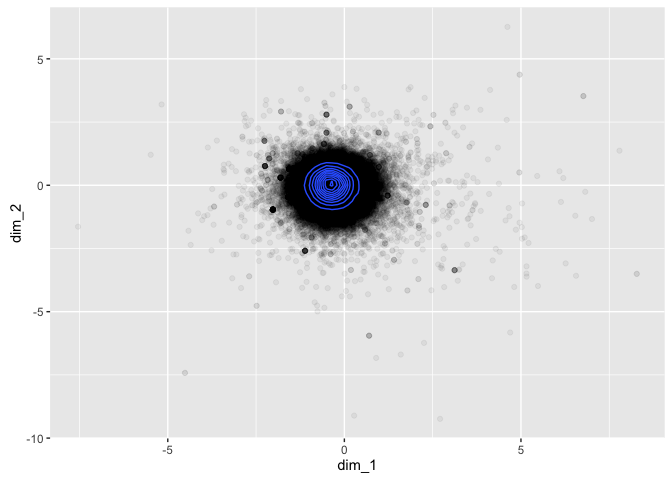
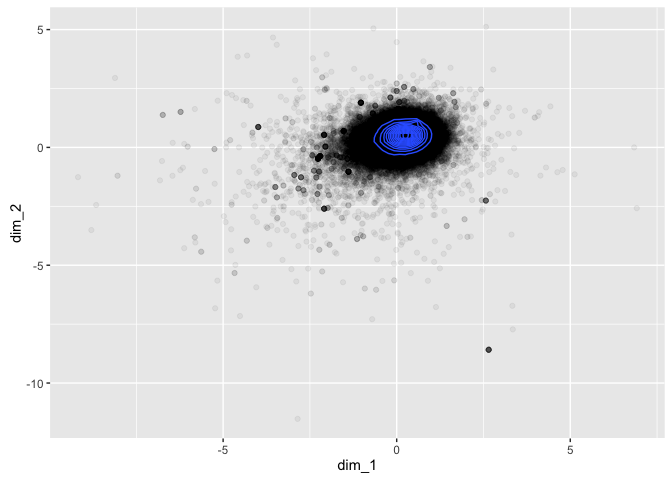
More work on GloVe tests

diff --git a/Experimentation/GloVeDistributions.md b/Experimentation/GloVeDistributions.md
@@ -87,10 +87,10 @@ word_vectors[c("cat", "dog", "research", "impact"),]
 ```
 
     ##                [,1]       [,2]
-    ## cat      -0.2120372 -0.1682826
-    ## dog      -0.4403001 -0.4487575
-    ## research  3.6708916  2.5611910
-    ## impact    3.0229723  2.9584991
+    ## cat      0.01735823 -0.4029906
+    ## dog      0.13628136 -0.9495724
+    ## research 2.70046246  3.6300607
+    ## impact   3.13069940  2.8159776
 
 We can also look at how these words are distributed across the two dimensional space.
 
@@ -140,15 +140,15 @@ mardiaTest(word_vectors2[sample(1:nrow(word_vectors2), 5000),])
     ## --------------------------------------- 
     ##    data : word_vectors2[sample(1:nrow(word_vectors2), 5000), ] 
     ## 
-    ##    g1p            : 46.48168 
-    ##    chi.skew       : 38734.73 
+    ##    g1p            : 47.11102 
+    ##    chi.skew       : 39259.18 
     ##    p.value.skew   : 0 
     ## 
-    ##    g2p            : 2702.708 
-    ##    z.kurtosis     : 50.35668 
+    ##    g2p            : 2707.151 
+    ##    z.kurtosis     : 52.53521 
     ##    p.value.kurt   : 0 
     ## 
-    ##    chi.small.skew : 38758.88 
+    ##    chi.small.skew : 39283.66 
     ##    p.value.small  : 0 
     ## 
     ##    Result          : Data are not multivariate normal. 
@@ -162,7 +162,7 @@ hzTest(word_vectors2[sample(1:nrow(word_vectors2), 5000),])
     ## --------------------------------------------- 
     ##   data : word_vectors2[sample(1:nrow(word_vectors2), 5000), ] 
     ## 
-    ##   HZ      : 1.000453 
+    ##   HZ      : 1.000202 
     ##   p-value : 0 
     ## 
     ##   Result  : Data are not multivariate normal. 
@@ -176,8 +176,8 @@ roystonTest(word_vectors2[sample(1:nrow(word_vectors2), 2000),])
     ## --------------------------------------------- 
     ##   data : word_vectors2[sample(1:nrow(word_vectors2), 2000), ] 
     ## 
-    ##   H       : 152.086 
-    ##   p-value : 3.080538e-12 
+    ##   H       : 162.6471 
+    ##   p-value : 7.635894e-14 
     ## 
     ##   Result  : Data are not multivariate normal. 
     ## ---------------------------------------------
@@ -190,11 +190,11 @@ Before we move on, we might as well check that similar words are near each other
 word_vectors[c("kidney", "bladder", "institute", "university"),]
 ```
 
-    ##                   [,1]       [,2]
-    ## kidney      0.02697178 -0.7086117
-    ## bladder    -0.44632564 -0.9706518
-    ## institute   2.45611095 -0.6736502
-    ## university  3.48836768 -0.4219434
+    ##                  [,1]       [,2]
+    ## kidney     0.57540366 -0.9746883
+    ## bladder    0.19040459 -1.3997446
+    ## institute  0.58163974  1.4106487
+    ## university 0.02619392  3.3428206
 
 It looks like it works pretty well, even in 2 dimensions! To be extra certain we can look at similar words in the 50 dimensional GloVe model.
 
@@ -207,29 +207,29 @@ get_nearest <- function(x) {
 get_nearest("kidney")
 ```
 
-    ##      kidney  transplant respiratory     chronic populations 
-    ##   1.0000000   0.6414065   0.6280148   0.6262203   0.5759843
+    ##     kidney transplant    chronic  pregnancy   corridor 
+    ##  1.0000000  0.6665933  0.6455455  0.5637431  0.5625042
 
 ``` r
 get_nearest("bladder")
 ```
 
-    ##   bladder    rectal     colon  invasive    penile 
-    ## 1.0000000 0.6095564 0.6058688 0.5802685 0.5690558
+    ##       bladder          lung        rectal neuromuscular      ancestry 
+    ##     1.0000000     0.6401507     0.5977973     0.5875259     0.5865934
 
 ``` r
 get_nearest("institute")
 ```
 
-    ##   institute association  australian     academy  foundation 
-    ##   1.0000000   0.6167790   0.6124357   0.5966237   0.5959347
+    ##  institute    british    academy australian     centre 
+    ##  1.0000000  0.6509103  0.6023490  0.6019490  0.5979515
 
 ``` r
 get_nearest("university")
 ```
 
-    ## university  cambridge     oxford    bristol      leeds 
-    ##  1.0000000  0.7610587  0.7569901  0.7462350  0.7305951
+    ## university     oxford    glasgow  cambridge    bristol 
+    ##  1.0000000  0.7678074  0.7548113  0.7354686  0.7171991
 
 This is looking promising - similar words are near each other in the 50D representation, which suggests it is doing a reasonable job of separating out the words.
 
@@ -242,7 +242,7 @@ qlst <- prepare_analogy_questions(questions_file,
                                   verbose = T)
 ```
 
-    ## 2016-10-13 00:28:13 -  9018 full questions found out of 19544 total
+    ## 2016-10-13 14:32:35 -  9018 full questions found out of 19544 total
 
 ``` r
 res <- check_analogy_accuracy(questions_list = qlst, 
@@ -250,35 +250,35 @@ res <- check_analogy_accuracy(questions_list = qlst,
                               verbose = T)
 ```
 
-    ## 2016-10-13 00:28:14 - capital-common-countries: correct 51 out of 506, accuracy = 0.1008
+    ## 2016-10-13 14:32:37 - capital-common-countries: correct 61 out of 506, accuracy = 0.1206
 
-    ## 2016-10-13 00:28:17 - capital-world: correct 79 out of 1638, accuracy = 0.0482
+    ## 2016-10-13 14:32:40 - capital-world: correct 66 out of 1638, accuracy = 0.0403
 
-    ## 2016-10-13 00:28:17 - currency: correct 0 out of 40, accuracy = 0.0000
+    ## 2016-10-13 14:32:40 - currency: correct 0 out of 40, accuracy = 0.0000
 
-    ## 2016-10-13 00:28:18 - city-in-state: correct 9 out of 449, accuracy = 0.0200
+    ## 2016-10-13 14:32:41 - city-in-state: correct 7 out of 449, accuracy = 0.0156
 
-    ## 2016-10-13 00:28:18 - family: correct 24 out of 182, accuracy = 0.1319
+    ## 2016-10-13 14:32:41 - family: correct 22 out of 182, accuracy = 0.1209
 
-    ## 2016-10-13 00:28:19 - gram1-adjective-to-adverb: correct 5 out of 506, accuracy = 0.0099
+    ## 2016-10-13 14:32:42 - gram1-adjective-to-adverb: correct 3 out of 506, accuracy = 0.0059
 
-    ## 2016-10-13 00:28:19 - gram2-opposite: correct 1 out of 240, accuracy = 0.0042
+    ## 2016-10-13 14:32:42 - gram2-opposite: correct 0 out of 240, accuracy = 0.0000
 
-    ## 2016-10-13 00:28:21 - gram3-comparative: correct 86 out of 930, accuracy = 0.0925
+    ## 2016-10-13 14:32:44 - gram3-comparative: correct 72 out of 930, accuracy = 0.0774
 
-    ## 2016-10-13 00:28:22 - gram4-superlative: correct 7 out of 210, accuracy = 0.0333
+    ## 2016-10-13 14:32:44 - gram4-superlative: correct 9 out of 210, accuracy = 0.0429
 
-    ## 2016-10-13 00:28:23 - gram5-present-participle: correct 47 out of 870, accuracy = 0.0540
+    ## 2016-10-13 14:32:46 - gram5-present-participle: correct 45 out of 870, accuracy = 0.0517
 
-    ## 2016-10-13 00:28:26 - gram6-nationality-adjective: correct 71 out of 1299, accuracy = 0.0547
+    ## 2016-10-13 14:32:48 - gram6-nationality-adjective: correct 53 out of 1299, accuracy = 0.0408
 
-    ## 2016-10-13 00:28:28 - gram7-past-tense: correct 66 out of 992, accuracy = 0.0665
+    ## 2016-10-13 14:32:50 - gram7-past-tense: correct 78 out of 992, accuracy = 0.0786
 
-    ## 2016-10-13 00:28:29 - gram8-plural: correct 4 out of 650, accuracy = 0.0062
+    ## 2016-10-13 14:32:51 - gram8-plural: correct 3 out of 650, accuracy = 0.0046
 
-    ## 2016-10-13 00:28:30 - gram9-plural-verbs: correct 28 out of 506, accuracy = 0.0553
+    ## 2016-10-13 14:32:52 - gram9-plural-verbs: correct 36 out of 506, accuracy = 0.0711
 
-    ## 2016-10-13 00:28:30 - OVERALL ACCURACY = 0.0530
+    ## 2016-10-13 14:32:52 - OVERALL ACCURACY = 0.0505
 
 The overall accuracy isn't hugely important in this context, and it will be improved upon when the model is tuned.
 
@@ -350,61 +350,61 @@ We can now see if similar sentences are being discovered by the model - here goe
 get_nearest_and_farthest(1, sentence_vectors)
 ```
 
-    ##                                                                                                                                                                                                                                                                               the historical, cultural, methodological and ethical insights from the research and outputs have resulted in pioneering, wide-ranging and sustained impact from ntu's leading involvement and advisory role in a number of impactful projects in the documentation, management and renewal of built heritage in oman and the uae and its dissemination through public engagement. 
-    ##                                                                                                                                                                                                                                                                                                                                                                                                                                                                                                                                                                                                                                                       1.0000000 
-    ##                                                                                                                                                                                                                                                                                                                                                                                    by using these exhibitions as a platform for the dissemination of kent and desnoes' collaborative work, the impact from this project has enriched cultural awareness of local and global cultural heritage and has provided expert opinion on presenting this to the public. 
-    ##                                                                                                                                                                                                                                                                                                                                                                                                                                                                                                                                                                                                                                                       0.8997682 
-    ##                                                                                                                                                                                                                                                                                                                    (2) the exceptional impact of brennand-wood's work with regard to interdisciplinary practices on a diverse set of audiences through public engagement activities is evidenced through the large number of public and private commissions (17 since 1993) for which the coleston hall project is exemplary through its cross-over with music. 
-    ##                                                                                                                                                                                                                                                                                                                                                                                                                                                                                                                                                                                                                                                       0.8928349 
-    ## the rota season (attendance 3,272) (5.10) showcased sixteen movies with scores by rota, including visconti's white nights (1957), the leopard (1963) and rocco and his brothers (1960), fellini's i vitelloni (1953), la strada (1954), il bidone (1955), nights of cabiria (1956), la dolce vita (1960), eight and a half (1963) and amarcord (1973), as well as popular italian comedies (&#200; primavera (1949), anni facili (1953), a queer melodrama (amici per la pelle (1955)), a british (obsession (1949)) and a french (plein soleil (1959)) thriller, zeffirelli's the taming of the shrew (1966) and the blockbuster the godfather part ii (1974). 
-    ##                                                                                                                                                                                                                                                                                                                                                                                                                                                                                                                                                                                                                                                      -0.6070391 
-    ##                                                                                                                                                                                                                                                                                                                                                                                                                                                                                                                                                                                                                               figure courtesy of bfn and ospar. 
-    ##                                                                                                                                                                                                                                                                                                                                                                                                                                                                                                                                                                                                                                                      -0.6208839
+    ##                                                                                     the historical, cultural, methodological and ethical insights from the research and outputs have resulted in pioneering, wide-ranging and sustained impact from ntu's leading involvement and advisory role in a number of impactful projects in the documentation, management and renewal of built heritage in oman and the uae and its dissemination through public engagement. 
+    ##                                                                                                                                                                                                                                                                                                                                                                                                                                                             1.0000000 
+    ##                                                                                                                                                             the significant impact of the research projects has been recognised in terms of the contribution to cultural enrichment, the discussion of sites of national heritage and engagement of public in moral and ethical issues arising from new scientific developments and the transparency of closed sites. 
+    ##                                                                                                                                                                                                                                                                                                                                                                                                                                                             0.8987246 
+    ##                                                                                                                                                                                          by using these exhibitions as a platform for the dissemination of kent and desnoes' collaborative work, the impact from this project has enriched cultural awareness of local and global cultural heritage and has provided expert opinion on presenting this to the public. 
+    ##                                                                                                                                                                                                                                                                                                                                                                                                                                                             0.8871750 
+    ## tesco british telecom waldner rhoss lennox fnac first facility siemens arcotel mcdonalds baxter schneider electric skanska socomec vodafone allianz johnson controls media markt eversheds metro ag cofely lg electronics marriott daikin honeywell spar best western nh hoteles unicredit carrier h&amp;m falkensteiner ibis hotels france air eurobank aldi relais &amp; chateaux mercure mitie toshiba ikea grupo inditex (zara, mango etc) swegon santander trane 
+    ##                                                                                                                                                                                                                                                                                                                                                                                                                                                            -0.5652953 
+    ##                                                                                                                                                                                                                                                                                                                                                                                                                                     figure courtesy of bfn and ospar. 
+    ##                                                                                                                                                                                                                                                                                                                                                                                                                                                            -0.5787604
 
 ``` r
 get_nearest_and_farthest(1234, sentence_vectors)
 ```
 
-    ##                                                                                                      policy the uk`s cabinet office, and office of the prime minister, invited varese to join the strategic review of serious organized crime, in 2009, because his work had come to the attention of the chairman of soca [section 5: c1]. 
-    ##                                                                                                                                                                                                                                                                                                                                   1.0000000 
-    ##                                                                                                                                                                                                                                            findings have been presented, by invitation, at the cabinet office, and the ministry of justice. 
-    ##                                                                                                                                                                                                                                                                                                                                   0.8658055 
-    ## a year later, michael mulqueen was invited to provide a confidential interim briefing on irish national security to the leader of the opposition, enda kenny td (currently taoiseach/prime minister), which fed, directly, into a number of questions pursued at leaders' questions in the d&#225;il (ireland's lower house of parliament). 
-    ##                                                                                                                                                                                                                                                                                                                                   0.8640205 
-    ##                                                                                                                                                         the technology features true wideband capabilities allowing simultaneous support for any wireless standard including 2g, 3g, 4g, lte, pmr/lmr, dvb-h, tetra, wi-fi, wimax and rfid. 
-    ##                                                                                                                                                                                                                                                                                                                                  -0.5605827 
-    ##                                                                                                                                                                                                                                       it's the perfect antidote to the vague vacuous nonsense crowding the shelves of self-help bookshops.' 
-    ##                                                                                                                                                                                                                                                                                                                                  -0.5825987
+    ##                                                                policy the uk`s cabinet office, and office of the prime minister, invited varese to join the strategic review of serious organized crime, in 2009, because his work had come to the attention of the chairman of soca [section 5: c1]. 
+    ##                                                                                                                                                                                                                                                                                             1.0000000 
+    ## in 2008, triggered by an article written with bechhofer for the 24th british social attitudes report (see section 3), mccrone was sought out, via a minister in the scottish government, by then prime minister gordon brown, who has a strong interest in questions of national identity in britain. 
+    ##                                                                                                                                                                                                                                                                                             0.8815716 
+    ##                                                                                      reading research has also fed into the commission on sustainable agriculture and climate change [b, cites 4], which was chaired by the uk's chief scientific adviser at the time, professor sir john beddington. 
+    ##                                                                                                                                                                                                                                                                                             0.8632888 
+    ##                                                                                                                                           here, the products target particularly aubergine, cucumber, melon, pepper, blueberry, raspberry, strawberry, tomato, cut flowers and ornamental pot plants. 
+    ##                                                                                                                                                                                                                                                                                            -0.5729760 
+    ##                                                                                                                   the technology features true wideband capabilities allowing simultaneous support for any wireless standard including 2g, 3g, 4g, lte, pmr/lmr, dvb-h, tetra, wi-fi, wimax and rfid. 
+    ##                                                                                                                                                                                                                                                                                            -0.5775073
 
 ``` r
 get_nearest_and_farthest(5678, sentence_vectors)
 ```
 
-    ##                                                                                         the two handbooks have had 2894 views since 2011. 
-    ##                                                                                                                                 1.0000000 
-    ## since publication on 15th july 2013, 120 books have already been sold and seven university courses have indicated it will be a core book. 
-    ##                                                                                                                                 0.7886740 
-    ##           prior to 2008, this resource consisted of material relating to six hundred poets; since july 2008, 1,060 poets have been added. 
-    ##                                                                                                                                 0.7814427 
-    ##                                                                                                                                   (imp4). 
-    ##                                                                                                                                -0.5110185 
-    ##                                                                    ibstock, uk; the sole brick factory, costa rica, petersens, dk) alike. 
-    ##                                                                                                                                -0.5250606
+    ##                                                                                             the two handbooks have had 2894 views since 2011. 
+    ##                                                                                                                                     1.0000000 
+    ##               over 200 ultra engineers, managers and directors have now received training, and 26 courses have been delivered since 2008 [a]. 
+    ##                                                                                                                                     0.7898779 
+    ##                                               this has been on sale since october 2009 and over 30 installations have been carried out [4.2]. 
+    ##                                                                                                                                     0.7843917 
+    ##                                                                        ibstock, uk; the sole brick factory, costa rica, petersens, dk) alike. 
+    ##                                                                                                                                    -0.5356279 
+    ## this csip-cefas underpinning research utilises a sentinel marine mammal apex predator - the uk-stranded harbour porpoise (phocoena phocoena). 
+    ##                                                                                                                                    -0.5464338
 
 ``` r
 get_nearest_and_farthest(9999, sentence_vectors)
 ```
 
-    ##                                                                                                            additionally, the changes have benefited patients who required fewer attendances and no splint in the majority of cases, without compromise to outcomes". 
-    ##                                                                                                                                                                                                                                                            1.0000000 
-    ##                                                                                                                                                             patients carrying the specific genetic markers had a higher remission compared to those who did not [f]. 
-    ##                                                                                                                                                                                                                                                            0.8019386 
-    ## additionally though, the majority of the nine patients who had received treatment by january 2013, some of whom had had considerable disability, showed reductions in neurological impairment and spasticity compared with their pre-treatment baseline performance. 
-    ##                                                                                                                                                                                                                                                            0.7662246 
-    ##                                                                                                      aissaoui presented a paper entitled "maghrebi cultural circles in metropolitan france 1934-1939" and miller presented a paper on "the maghrebi and comics" (h). 
-    ##                                                                                                                                                                                                                                                           -0.5184016 
-    ##                                                                                                                                                                                                       curated by susanna beaumont, charlotte jones, rebecca milling. 
-    ##                                                                                                                                                                                                                                                           -0.5226697
+    ##                                                                                                                                                   additionally, the changes have benefited patients who required fewer attendances and no splint in the majority of cases, without compromise to outcomes". 
+    ##                                                                                                                                                                                                                                                                                                   1.0000000 
+    ## at great ormond street hospital and uclh there are currently 21 children and adolescent patients being treated with tocilizumab who would otherwise have had active disease with its potential problems and most likely would have been on high dose steroids and suffering the complications of this also. 
+    ##                                                                                                                                                                                                                                                                                                   0.7730076 
+    ##                                                                                                                                           furthermore, they are at less risk of developing skin damage/ulceration that may themselves prolong hospital admission, estimated as 6000 fewer cases since 2009. 
+    ##                                                                                                                                                                                                                                                                                                   0.7589511 
+    ##                                                                                                                                             aissaoui presented a paper entitled "maghrebi cultural circles in metropolitan france 1934-1939" and miller presented a paper on "the maghrebi and comics" (h). 
+    ##                                                                                                                                                                                                                                                                                                  -0.4827796 
+    ##                                                                                                                                                                                                                                                                             sir tony hoare (microsoft) [e4] 
+    ##                                                                                                                                                                                                                                                                                                  -0.4848293
 
 I don't want to get too carried away here, but it looks like it's working! The first three sentences in each comparison are similar, and the last two are very dissimilar! I'm going to claim that as a win for now, and I'm comfortable that the first assumption under test in this script is viable.
 
@@ -514,3 +514,93 @@ durham <- sentence_vectors[which(tidy_ref$CaseStudyId == 11764),] %>%
   as.matrix() %>% 
   as.data.frame()
 ```
+
+Unfortunately the standard MVN outlier tests do not work for individual documents as there are more dimensions than there are sentences, however we can still use distance measures to identify potential outliers. For now we will just look at the first two dimensions graphically, and then use numeric comparisons to extend the analysis to 50 dimensions.
+
+``` r
+durham$sentence_num <- paste0("X",1:nrow(durham))
+ggplot(durham) +
+  geom_point(aes(x=V1, y=V2)) +
+  geom_text(aes(x=V1, y=V2, label = sentence_num), nudge_x = 0.2) +
+  scale_x_continuous(expand = c(0.1,0.1))
+```
+
+![](GloVeDistributions_files/figure-markdown_github/unnamed-chunk-10-1.png)
+
+This looks promising! X29 (the 29th sentence) rightly appears as an outlier in the first two dimensions, as does X14 (the 14th sentence) and potentially X9, X12 and X13. We can look at each of the original sentences below:
+
+``` r
+durham_raw <- 
+  str_replace_all(tidy_ref$text[which(tidy_ref$CaseStudyId == 11764)],"\\s+", " ")
+durham_raw[29] # the sentence that doesn't have any words
+```
+
+    ## [1] "[8]"
+
+``` r
+durham_raw[14]
+```
+
+    ## [1] "(ms) \"the research has helped me greatly, it has made me concentrate much more ..."
+
+``` r
+durham_raw[9]
+```
+
+    ## [1] "in the uk some 150 patients took part in the three clinical trials underpinning the research, benefitting from improvements in their self-confidence, independence, self-esteem and general comfort."
+
+``` r
+durham_raw[12]
+```
+
+    ## [1] "patient testimonials [5] include: \"i now find using a dictionary ... and the telephone directory much easier and also continue to enjoy my general reading, tapestry, and knitting, and i certainly pay more particular attention to my environment when i am out\"."
+
+``` r
+durham_raw[13]
+```
+
+    ## [1] "(mh) \"i went for a week on a canal boat last week so i was able to steer the boat and implement my new visual awareness skills\"."
+
+Looking at these in detail, it looks like several of them are quotes or testimonials, which makes sense as they are written from a different perspective and use different language. We shouldn't get too carried away though, let's take a look at distances in all 50 dimensions, and look at the 5 "least similar" sentences.
+
+``` r
+average_sentence <- colMeans(durham[,1:50])
+sim2(x = as.matrix(durham[,1:50]), y = t(as.matrix(average_sentence)), 
+     method = "cosine", norm = "l2")[,1] %>% 
+  sort(decreasing = TRUE) %>% tail(5)
+```
+
+    ##                                                                        i find i read a lot more now, because i find it easier and more comfortable". 
+    ##                                                                                                                                            0.6643481 
+    ## many patients restrict their activities, become withdrawn and dependent, and can suffer from depression as a consequence of their visual impairment. 
+    ##                                                                                                                                            0.6582623 
+    ##                     (mh) "i went for a week on a canal boat last week so i was able to steer the boat and implement my new visual awareness skills". 
+    ##                                                                                                                                            0.5343833 
+    ##                                                                                                                                                  [8] 
+    ##                                                                                                                                            0.5177477 
+    ##                           the team has worked with professionals from numerous specialities including neurosciences, ophthalmology and stroke units. 
+    ##                                                                                                                                            0.3893308
+
+These sentences include two quotes, a sentence of non-word symbols, and then two other "outlier" sentences. This looks promising!
+
+Going to the other extreme, we can find outliers from the entire corpus, and identify whether any of those are part of the document being assessed. Let's start by looking at the biggest outliers overall.
+
+``` r
+average_sentence <- colMeans(as.matrix(sentence_vectors))
+sim2(x = as.matrix(sentence_vectors), y = t(as.matrix(average_sentence)), 
+     method = "cosine", norm = "l2")[,1] %>% 
+  sort(decreasing = TRUE) %>% tail(5)
+```
+
+    ##                                                dibynnodd geiriadur yr academi'n drwm iawn ar gpc; yn wir, prin y gallesid dychmygu creu ga heb gymorth gpc. 
+    ##                                                                                                                                                  -0.6006816 
+    ##                                                                                       4a: sphincter reconstruction and neuromodulation: esgn, sns and ptns. 
+    ##                                                                                                                                                  -0.6043274 
+    ## here, the products target particularly aubergine, cucumber, melon, pepper, blueberry, raspberry, strawberry, tomato, cut flowers and ornamental pot plants. 
+    ##                                                                                                                                                  -0.6522417 
+    ##     amphion's sip platforms included wireless lan baseband processors (ieee 802.11a, hiperlan) and dvb subsystems for cable, satellite and terrestrial dtv. 
+    ##                                                                                                                                                  -0.6533203 
+    ##                                                                                                   (amos bertolacci, scuola normale superiore, pisa, italy). 
+    ##                                                                                                                                                  -0.7277594
+
+These are definitely bad sentences!
